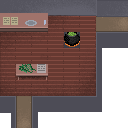
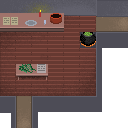
actionscene co-ordinated for after task completed

Changed region(s): [[0.5, 0.25, 0.75, 0.375], [0.375, 0.0938, 0.5, 0.25], [0.25, 0.0312, 0.375, 0.125]]

diff --git a/OverWorldMap.js b/OverWorldMap.js
@@ -326,7 +326,7 @@ window.OverworldMaps = {
         x: utils.withGrid(0),
         y: utils.withGrid(1),
       },
-       Bed: {
+      Bed: {
         type: "Person",
         x: utils.withGrid(1),
         y: utils.withGrid(1),
@@ -774,7 +774,6 @@ outsideFlat: {
         }
       ]
     },
-
     NaN: {
       type: "Person",
       useShadow: true,
@@ -943,7 +942,7 @@ Nans: {
       useShadow: true,
       isPlayerControlled: false,
       visible1: true,
-      x: utils.withGrid(3),
+      x: utils.withGrid(4),
       y: utils.withGrid(2),
       src: "./images/characters/people/NaN.png",
       talking: [
@@ -951,6 +950,13 @@ Nans: {
           required:["OUTSIDE_GARDEN", "OUTSIDE_GARDEN_COMPLETED"],
           events:[ 
             { type: "textMessage", text: "NaN: Odvar, you're a star!", faceHero:"NaN" },
+            { who: "NaN", type: "walk",  direction: "left" },
+            { who: "NaN", type: "stand",  direction: "up" },
+            { who: "NaN", type: "walk",  direction: "left" },
+            { who: "NaN", type: "walk",  direction: "down" },
+            { who: "NaN", type: "walk",  direction: "left" },
+            { who: "NaN", type: "walk",  direction: "left" },
+            { who: "NaN", type: "walk",  direction: "down" },
           ]
         },
         {
@@ -967,12 +973,12 @@ Nans: {
             { type: "textMessage", text: "Odvar: Anything I can help with?" },
             { type: "textMessage", text: "NaN: well if you're offering, yes! there is!" },
             { type: "textMessage", text: "NaN: would you be a dear and grab some herbs from the garden?" },
-            { type: "textMessage", text: "Odvar: As long as you don't need me to collect any nettles, that hurt!" },
+            { type: "textMessage", text: "Odvar: As long as you don't need me to collect any more nettles, that really hurt!" },
             { 
               type: "changeMap", 
               map: "Garden",
               x: utils.withGrid(1),
-              y: utils.withGrid(16),
+              y: utils.withGrid(17),
               direction:"right",
             },
             { type: "addStoryFlag", flag:"OUTSIDE_GARDEN"}
@@ -983,7 +989,36 @@ Nans: {
         { type: "stand",  direction: "right", time: 8000 },
       ],
     },
-
+    Cauldron: {
+      type: "Person",
+      x: utils.withGrid(5),
+      y: utils.withGrid(2),
+      visible1: true,
+      src: "./images/objects/empty.png",
+      useShadow: false,
+      talking: [
+        {
+          events: [
+            { type: "textMessage", text: "alluring...smells medicinal...with a whiff of wet dog" },
+          ]
+        }
+      ]
+    },
+    Table: {
+      type: "Person",
+      x: utils.withGrid(1),
+      y: utils.withGrid(4),
+      visible1: true,
+      src: "./images/objects/empty.png",
+      useShadow: false,
+      talking: [
+        {
+          events: [
+            { type: "textMessage", text: "alluring...smells medicinal...with a whiff of wet dog" },
+          ]
+        }
+      ]
+    },
    
   
   
@@ -991,14 +1026,41 @@ Nans: {
   },//end of config objects
 
   walls: {
-    [utils.asGridCoord(-1,0)] : true,
+    [utils.asGridCoord(-1,2)] : true,
+    [utils.asGridCoord(-1,3)] : true,
+    [utils.asGridCoord(-1,4)] : true,
+    [utils.asGridCoord(-1,5)] : true,
+    [utils.asGridCoord(0,6)] : true,
+    [utils.asGridCoord(0,7)] : true,
+    [utils.asGridCoord(2,7)] : true,
+    [utils.asGridCoord(2,6)] : true,
+    [utils.asGridCoord(3,6)] : true,
+    [utils.asGridCoord(4,6)] : true,
+    [utils.asGridCoord(5,6)] : true,
+    [utils.asGridCoord(6,5)] : true,
+    [utils.asGridCoord(6,4)] : true,
+    [utils.asGridCoord(6,3)] : true,
+    [utils.asGridCoord(6,2)] : true,
+    [utils.asGridCoord(7,2)] : true,
+    [utils.asGridCoord(7,0)] : true,
+    [utils.asGridCoord(6,0)] : true,
+    [utils.asGridCoord(5,0)] : true,
+    [utils.asGridCoord(4,0)] : true,
+    [utils.asGridCoord(3,1)] : true,
+    [utils.asGridCoord(2,1)] : true,
+    [utils.asGridCoord(1,1)] : true,
+    [utils.asGridCoord(0,1)] : true,
+    [utils.asGridCoord(2,4)] : true,//table
     
   },//end of walls
 
   roomDescription: [
     {
         events: [
-          { type: "textMessage", text:"nans"},
+          { type: "textMessage", text:"NaNs House is dark and rustic, five tiles wide by five tiles deep. NaN is stood at the top right center of the room facing a cauldron."},
+          { type: "textMessage", text:"The street entrance is to the left of the bottom of the room, and a Garden entrance to the top of the right."},
+          { type: "textMessage", text:"There is a table to the center left of the room, and a counter to the top left of the room."},
+          { type: "textMessage", text:"Odvar: It's the only place I know where the moss grows inside!"},
         ]
   },
 ],//end of roomDescription
@@ -1022,7 +1084,20 @@ Nans: {
         ]
       }
     ],
-  
+    [utils.asGridCoord(1,7)]: [
+      {
+        events: [
+          { 
+          type: "changeMap", 
+          map: "outsideFlat",
+          x: utils.withGrid(23),
+          y: utils.withGrid(1),
+          direction:"down",
+         },
+          
+        ]
+      }
+    ], 
     [utils.asGridCoord(7,1)]: [
       {
         events: [
@@ -1030,13 +1105,13 @@ Nans: {
           type: "changeMap", 
           map: "Garden",
           x: utils.withGrid(0),
-          y: utils.withGrid(16),
+          y: utils.withGrid(17),
           direction:"right",
          },
           
         ]
       }
-    ], 
+    ],
   },//end of cutSceneSpaces
 
 
@@ -1045,7 +1120,7 @@ Nans: {
 
 Garden: {
   lowerSrc: "./images/maps/Garden_lower.png",
-  upperSrc: "",//"./images/maps/Garden_upper.png",
+  upperSrc: "./images/maps/Garden_upper.png",
 
   configObjects: {
 
@@ -1076,21 +1151,21 @@ Garden: {
 
     Thyme: {
       type: "collectible2",
-      x: utils.withGrid(5),
-      y: utils.withGrid(2),
+      x: utils.withGrid(2),
+      y: utils.withGrid(16),
       visible1: true,
       src: "images/objects/Plant1.png",
       storyFlag:"USED_collectibleObjectA",
-      plants: ["v01", "f01"],
+      //plants: ["v01", "f01"],
     },   
     Rosemary: {
       type: "collectible2",
-      x: utils.withGrid(5),
-      y: utils.withGrid(3),
+      x: utils.withGrid(3),
+      y: utils.withGrid(18),
       visible1: true,
       src: "images/objects/Plant1.png",
       storyFlag:"USED_collectibleObjectB",
-      plants: ["v01", "f01"],
+      //plants: ["v01", "f01"],
     }, 
   
   
@@ -1099,20 +1174,119 @@ Garden: {
 
   walls: {
     [utils.asGridCoord(-1,0)] : true,
+    [utils.asGridCoord(-1,1)] : true,
+    [utils.asGridCoord(-1,2)] : true,
+    [utils.asGridCoord(-1,3)] : true,
+    [utils.asGridCoord(-1,4)] : true,
+    [utils.asGridCoord(-1,5)] : true,
+    [utils.asGridCoord(-1,6)] : true,
+    [utils.asGridCoord(-1,7)] : true,
+    [utils.asGridCoord(-1,8)] : true,
+    [utils.asGridCoord(-1,9)] : true,
+    [utils.asGridCoord(-1,10)] : true,
+    [utils.asGridCoord(-1,11)] : true,
+    [utils.asGridCoord(-1,12)] : true,
+    [utils.asGridCoord(0,13)] : true,
+    [utils.asGridCoord(0,14)] : true,
+    [utils.asGridCoord(0,15)] : true,
+    [utils.asGridCoord(0,16)] : true,
+    [utils.asGridCoord(0,18)] : true,//end of left side
+    [utils.asGridCoord(1,19)] : true,//beginning of bottom
+    [utils.asGridCoord(2,19)] : true,
+    [utils.asGridCoord(3,19)] : true,
+    [utils.asGridCoord(4,19)] : true,
+    [utils.asGridCoord(5,19)] : true,
+    [utils.asGridCoord(6,19)] : true,
+    [utils.asGridCoord(7,19)] : true,
+    [utils.asGridCoord(8,19)] : true,
+    [utils.asGridCoord(9,19)] : true,
+    [utils.asGridCoord(10,19)] : true,
+    [utils.asGridCoord(11,19)] : true,
+    [utils.asGridCoord(12,19)] : true,
+    [utils.asGridCoord(13,19)] : true,
+    [utils.asGridCoord(14,19)] : true,
+    [utils.asGridCoord(15,19)] : true,
+    [utils.asGridCoord(16,19)] : true,
+    [utils.asGridCoord(17,19)] : true,
+    [utils.asGridCoord(18,19)] : true,
+    [utils.asGridCoord(19,19)] : true,//end of bottom
+    [utils.asGridCoord(19,18)] : true,//beginning of right side
+    [utils.asGridCoord(19,17)] : true,
+    [utils.asGridCoord(19,16)] : true,
+    [utils.asGridCoord(19,15)] : true,
+    [utils.asGridCoord(19,14)] : true,
+    [utils.asGridCoord(19,13)] : true,
+    [utils.asGridCoord(19,12)] : true,
+    [utils.asGridCoord(19,11)] : true,
+    [utils.asGridCoord(19,10)] : true,
+    [utils.asGridCoord(19,9)] : true,
+    [utils.asGridCoord(19,8)] : true,
+    [utils.asGridCoord(19,7)] : true,
+    [utils.asGridCoord(19,6)] : true,
+    [utils.asGridCoord(19,5)] : true,
+    [utils.asGridCoord(19,4)] : true,
+    [utils.asGridCoord(19,3)] : true,
+    [utils.asGridCoord(19,2)] : true,
+    [utils.asGridCoord(19,1)] : true,//end of right side
+    [utils.asGridCoord(18,0)] : true,//beginning of top
+    [utils.asGridCoord(17,0)] : true,
+    [utils.asGridCoord(16,0)] : true,
+    [utils.asGridCoord(15,0)] : true,
+    [utils.asGridCoord(14,0)] : true,
+    [utils.asGridCoord(13,0)] : true,
+    [utils.asGridCoord(12,0)] : true,
+    [utils.asGridCoord(11,0)] : true,
+    [utils.asGridCoord(10,0)] : true,
+    [utils.asGridCoord(9,0)] : true,
+    [utils.asGridCoord(8,0)] : true,
+    [utils.asGridCoord(7,0)] : true,
+    [utils.asGridCoord(6,0)] : true,
+    [utils.asGridCoord(5,0)] : true,
+    [utils.asGridCoord(4,0)] : true,
+    [utils.asGridCoord(3,0)] : true,
+    [utils.asGridCoord(2,0)] : true,
+    [utils.asGridCoord(1,0)] : true,//end of top
+    [utils.asGridCoord(4,2)] : true,//begiing of fence
+    [utils.asGridCoord(4,3)] : true,
+    [utils.asGridCoord(4,4)] : true,
+    [utils.asGridCoord(4,5)] : true,
+    [utils.asGridCoord(4,6)] : true,
+    [utils.asGridCoord(4,7)] : true,
+    [utils.asGridCoord(4,8)] : true,
+    [utils.asGridCoord(4,9)] : true,
+    [utils.asGridCoord(4,10)] : true,
+    [utils.asGridCoord(4,11)] : true,
+    [utils.asGridCoord(4,12)] : true,//end fence
+    [utils.asGridCoord(1,13)] : true,//begin hedge
+    [utils.asGridCoord(2,13)] : true,
+    [utils.asGridCoord(3,13)] : true,
+    [utils.asGridCoord(4,13)] : true,
+    [utils.asGridCoord(5,13)] : true,
+    [utils.asGridCoord(6,13)] : true,
+    [utils.asGridCoord(8,13)] : true,
+    [utils.asGridCoord(9,13)] : true,
+    [utils.asGridCoord(9,14)] : true,
+    [utils.asGridCoord(9,15)] : true,
+    [utils.asGridCoord(9,16)] : true,
+    [utils.asGridCoord(9,17)] : true,//end hedges
+    
+
     
   },//end of walls
 
   roomDescription: [
     {
         events: [
-          { type: "textMessage", text:"The Garden is big, wild and overgrown. It can be hard to find your way around."},
+          { type: "textMessage", text:"NaNs Garden is eight tiles wide by five tiles deep, with the entrance to Nans house near the bottom of the left side."},
+          { type: "textMessage", text:"There are plant beds running in horizontal lines, with some plants that can be harvested."},
+          { type: "textMessage", text:"There are hedges marking the edges of the garden, with accessible gaps at the top and bottom right leading to wildly overgrown spaces."},
         ]
   },
 ],//end of roomDescription
 
   
   cutsceneSpaces: {
-    [utils.asGridCoord(0,16)]: [
+    [utils.asGridCoord(0,17)]: [
       {
         events: [
           { 
@@ -1128,9 +1302,7 @@ Garden: {
     ],
   },//end of cutSceneSpaces
   
-
-
-},//end of NaN
+},//end of NaNs
 
 
 

diff --git a/collectible2.js b/collectible2.js
@@ -27,7 +27,7 @@ class collectible2 extends GameObject {
             },
             {
                 events: [
-                    { type:"textMessage", text: "want to use it?"},
+                    { type:"textMessage", text: "Pick it up?"},
                     //{ type: "craftingMenu", plants: this.plants}, 
                     { type:"addStoryFlag", flag: this.storyFlag },
                     { type: "objectCollected", id: this.id},
